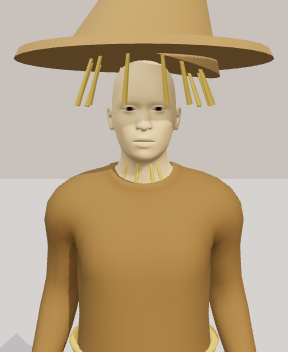
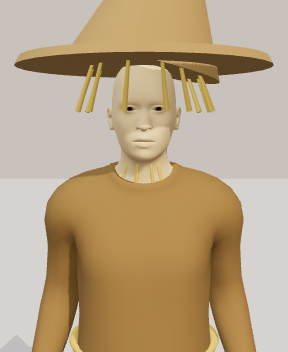
fix(preview): cut every hat to the measured head
Hats were placed at fixed offsets from the head joint, so they floated above
some rigs, sank into others and drifted forward or back with the skull's
offset from the joint. head-fit.js now measures each rig's skull and hair
around the joint from the skinned mesh (through the bind pose, cached per
template and scaled per instance): top, front, back, and the centre and
radius of the upper head about its own extents rather than the joint.

All hats are built from those measurements: folk brims clear the hair and
crowns sit on it, the beret is cut to the skull it presses flat, the Winkie
cap hugs the hair, the Gillikin hood is a squashed shell that hugs the crown
with a back drape and collar and hides the hair it replaces, and the Emerald
spectacles sit at the eye line with arms along the temples. The Scarecrow,
Tin Man and Witch hats and the Lion's mane use the same fit.

Tests: synthetic skinned rigs prove the measurement (including an off-centre
skull and instance scaling) and that every folk hat clears what it covers;
142 pass. The model fixture gains ?resident=<id>&rig=<n> for inspecting a
dressed resident, which was used to check all five hats on several rigs.

Changed region(s): [[0.0312, 0.0, 0.9688, 0.375], [0.2812, 0.4688, 0.4062, 0.5], [0.6875, 0.0, 0.7188, 0.0312]]

diff --git a/preview/src/oz-folk.js b/preview/src/oz-folk.js
@@ -1,5 +1,6 @@
 import * as THREE from 'three';
 import { mergeGeometries } from 'three/addons/utils/BufferGeometryUtils.js';
+import { measureHead } from './head-fit.js';
 
 // The peoples of Baum's Oz (the 1900 novel is public domain): each country
 // dresses in its own colour, and Emerald City folk wear their green spectacles.
@@ -17,43 +18,61 @@ export function ozFolkFor(id) {
 }
 
 const templates = new Map();
-function template(folk) {
-  if (templates.has(folk.name)) return templates.get(folk.name);
+const quantize = value => Math.round(value * 200) / 200;
+// Hats are cut to the measured head: brims clear the hair, crowns sit on it,
+// hoods replace it, and Emerald spectacles sit at the real eye line.
+function template(folk, fit) {
+  const key = `${folk.name}:${[fit.skull.top, fit.skull.radius, fit.skull.front, fit.skull.back, ...fit.skull.centre, fit.hair.top, fit.hair.radius, ...fit.hair.centre].map(quantize).join(':')}`;
+  if (templates.has(key)) return templates.get(key);
   const cloth = [], trim = [];
   const add = (parts, geometry, position, rotation = [0, 0, 0], scale = [1, 1, 1]) => {
     geometry.scale(...scale); geometry.rotateX(rotation[0]); geometry.rotateY(rotation[1]); geometry.rotateZ(rotation[2]); geometry.translate(...position); parts.push(geometry);
   };
-  // Positions are metres in a head-aligned frame: y up from the head joint, z forward.
+  const { skull, hair } = fit, eyeY = skull.top - 0.105, eyeZ = skull.front - 0.025, centreY = skull.top - skull.radius;
+  const [hx, hz] = hair.centre, [sx, sz] = skull.centre;
   if (folk.hat === 'bells') {
-    add(cloth, new THREE.CylinderGeometry(0.2, 0.21, 0.018, 32), [0, 0.19, 0]);
-    add(cloth, new THREE.CylinderGeometry(0.11, 0.15, 0.16, 32), [0, 0.27, 0]);
-    add(cloth, new THREE.ConeGeometry(0.11, 0.24, 32), [0, 0.47, 0]);
-    for (let i = 0; i < 6; i++) { const angle = i / 6 * Math.PI * 2; add(trim, new THREE.SphereGeometry(0.014, 10, 8), [Math.cos(angle) * 0.2, 0.17, Math.sin(angle) * 0.2]); }
+    const brimY = hair.top - 0.022, brimR = hair.radius + 0.035, crownR = hair.radius * 0.92;
+    add(cloth, new THREE.CylinderGeometry(brimR, brimR + 0.01, 0.018, 32), [hx, brimY, hz]);
+    add(cloth, new THREE.CylinderGeometry(crownR * 0.72, crownR, 0.16, 32), [hx, brimY + 0.08, hz]);
+    add(cloth, new THREE.ConeGeometry(crownR * 0.72, 0.24, 32), [hx, brimY + 0.28, hz]);
+    for (let i = 0; i < 6; i++) { const angle = i / 6 * Math.PI * 2; add(trim, new THREE.SphereGeometry(0.014, 10, 8), [hx + Math.cos(angle) * brimR, brimY - 0.02, hz + Math.sin(angle) * brimR]); }
   } else if (folk.hat === 'peak') {
-    add(cloth, new THREE.SphereGeometry(0.155, 28, 16, 0, Math.PI * 2, 0, Math.PI / 2), [0, 0.135, -0.01], [0, 0, 0], [1, 0.78, 1]);
-    add(cloth, new THREE.CylinderGeometry(0.16, 0.16, 0.014, 24, 1, false, -Math.PI / 2, Math.PI), [0, 0.135, -0.01]);
-    add(trim, new THREE.TorusGeometry(0.152, 0.008, 6, 32), [0, 0.135, -0.01], [Math.PI / 2, 0, 0]);
+    const capR = hair.radius + 0.022, capY = hair.top - capR * 0.66;
+    add(cloth, new THREE.SphereGeometry(capR, 28, 16, 0, Math.PI * 2, 0, Math.PI / 2), [hx, capY, hz], [0, 0, 0], [1, 0.82, 1]);
+    add(cloth, new THREE.CylinderGeometry(capR + 0.045, capR + 0.045, 0.012, 24, 1, false, -Math.PI / 2, Math.PI), [hx, capY, hz]);
+    add(trim, new THREE.TorusGeometry(capR, 0.008, 6, 32), [hx, capY, hz], [Math.PI / 2, 0, 0]);
   } else if (folk.hat === 'beret') {
-    add(cloth, new THREE.SphereGeometry(0.19, 28, 16), [0.03, 0.205, -0.02], [0, 0, 0.12], [1, 0.36, 1]);
-    add(trim, new THREE.CylinderGeometry(0.008, 0.008, 0.03, 8), [0.03, 0.28, -0.02]);
+    // A beret presses the hair flat, so it is cut to the skull rather than the hair.
+    const beretR = Math.max(hair.radius, skull.radius + 0.02) + 0.03, beretY = skull.top - 0.005;
+    add(cloth, new THREE.SphereGeometry(beretR, 28, 16), [sx + 0.02, beretY, sz - 0.01], [0, 0, 0.1], [1, 0.4, 1]);
+    add(trim, new THREE.CylinderGeometry(0.008, 0.008, 0.03, 8), [sx + 0.02, beretY + beretR * 0.4, sz - 0.01]);
   } else if (folk.hat === 'hood') {
-    add(cloth, new THREE.ConeGeometry(0.175, 0.34, 32, 1, true), [0, 0.2, -0.03], [0.12, 0, 0]);
-    add(cloth, new THREE.SphereGeometry(0.17, 28, 16, Math.PI * 0.55, Math.PI * 0.9, 0, Math.PI * 0.62), [0, 0.06, -0.01]);
-    add(trim, new THREE.TorusGeometry(0.16, 0.014, 8, 32), [0, -0.09, -0.01], [Math.PI / 2, 0, 0]);
+    // A cowl: a shell over the crown and the back half of the head (sphere phi runs
+    // +x -> -z -> -x for [PI, 2PI]), a soft peak folded back, and a short collar.
+    // The shell hugs the skull: a hair's breadth wider than the head, squashed so its
+    // crown sits half a centimetre above the measured top.
+    const hoodR = skull.radius + 0.012, squash = (skull.radius + 0.005) / hoodR;
+    add(cloth, new THREE.SphereGeometry(hoodR, 32, 18, Math.PI, Math.PI, 0, Math.PI * 0.74), [sx, centreY, sz], [0, 0, 0], [1, squash, 1]);
+    add(cloth, new THREE.SphereGeometry(hoodR, 32, 18, 0, Math.PI * 2, 0, Math.PI * 0.4), [sx, centreY, sz], [0, 0, 0], [1, squash, 1]);
+    add(cloth, new THREE.ConeGeometry(0.045, 0.1, 24, 1, true), [sx, centreY + hoodR * squash * 0.72, sz - hoodR * 0.5], [-0.75, 0, 0]);
+    add(cloth, new THREE.CylinderGeometry(skull.radius + 0.015, skull.radius + 0.05, 0.06, 32, 1, true), [sx, centreY - skull.radius - 0.045, sz]);
+    add(trim, new THREE.TorusGeometry(skull.radius + 0.022, 0.009, 8, 32), [sx, centreY - skull.radius - 0.013, sz], [Math.PI / 2, 0, 0]);
   } else {
-    add(cloth, new THREE.CylinderGeometry(0.21, 0.21, 0.018, 32), [0, 0.19, 0]);
-    add(cloth, new THREE.CylinderGeometry(0.135, 0.145, 0.26, 32), [0, 0.32, 0]);
-    add(trim, new THREE.TorusGeometry(0.14, 0.012, 6, 32), [0, 0.21, 0], [Math.PI / 2, 0, 0]);
-    // Green spectacles, as every citizen of the Emerald City wears.
-    for (const side of [-1, 1]) add(trim, new THREE.TorusGeometry(0.03, 0.005, 6, 24), [side * 0.05, 0.07, 0.125]);
-    add(trim, new THREE.CylinderGeometry(0.004, 0.004, 0.04, 6), [0, 0.07, 0.125], [0, 0, Math.PI / 2]);
+    const brimY = hair.top - 0.01, brimR = hair.radius + 0.04, crownR = hair.radius * 0.95;
+    add(cloth, new THREE.CylinderGeometry(brimR, brimR, 0.016, 32), [hx, brimY, hz]);
+    add(cloth, new THREE.CylinderGeometry(crownR * 0.94, crownR, 0.26, 32), [hx, brimY + 0.13, hz]);
+    add(trim, new THREE.TorusGeometry(crownR, 0.012, 6, 32), [hx, brimY + 0.03, hz], [Math.PI / 2, 0, 0]);
+    // Green spectacles, as every citizen of the Emerald City wears, at the eye line.
+    for (const side of [-1, 1]) add(trim, new THREE.TorusGeometry(0.031, 0.0045, 6, 24), [sx + side * 0.036, eyeY, eyeZ]);
+    add(trim, new THREE.CylinderGeometry(0.003, 0.003, 0.014, 6), [sx, eyeY + 0.006, eyeZ], [0, 0, Math.PI / 2]);
+    for (const side of [-1, 1]) add(trim, new THREE.CylinderGeometry(0.003, 0.003, skull.front - skull.back - 0.03, 6), [sx + side * (skull.radius - 0.005), eyeY + 0.008, (skull.front + skull.back) / 2 - 0.01], [Math.PI / 2, 0, 0]);
   }
   const result = [
     { geometry: mergeGeometries(cloth), material: new THREE.MeshStandardMaterial({ color: folk.color, roughness: 0.86 }) },
     { geometry: mergeGeometries(trim), material: new THREE.MeshStandardMaterial({ color: folk.trim, roughness: 0.4, metalness: folk.hat === 'bells' ? 0.7 : 0.15 }) },
   ];
   [...cloth, ...trim].forEach(geometry => geometry.dispose());
-  templates.set(folk.name, result); return result;
+  templates.set(key, result); return result;
 }
 
 // Tint the shared suit toward the country colour and attach the country's hat.
@@ -62,10 +81,13 @@ export function applyOzFolk(avatar, id) {
   const folk = ozFolkFor(id), model = avatar.model, head = model.getObjectByName('head');
   for (const [original, material] of avatar.materials) if (/suit|dress|shirt|jacket/.test(original.name)) { material.color.set(folk.color); material.roughness = 0.82; material.needsUpdate = true; }
   if (head) {
+    const fit = measureHead(avatar);
+    // A hood replaces the hair; every other hat sits on top of it.
+    if (folk.hat === 'hood') model.traverse(item => { if (item.isMesh && /^(bob|short|ponytail|long|afro|curly)/.test(item.material?.name ?? '')) item.visible = false; });
     model.updateMatrixWorld(true);
     const group = new THREE.Group(); group.name = `${folk.name} hat`;
     group.position.copy(head.getWorldPosition(new THREE.Vector3())); group.updateMatrixWorld(true);
-    for (const part of template(folk)) { const mesh = new THREE.Mesh(part.geometry, part.material); mesh.castShadow = mesh.receiveShadow = true; mesh.userData.localId = id; mesh.userData.ozFolk = folk.name; group.add(mesh); }
+    for (const part of template(folk, fit)) { const mesh = new THREE.Mesh(part.geometry, part.material); mesh.castShadow = mesh.receiveShadow = true; mesh.userData.localId = id; mesh.userData.ozFolk = folk.name; group.add(mesh); }
     head.attach(group);
   }
   model.userData.ozFolk = folk.name;

diff --git a/preview/src/player-costume.js b/preview/src/player-costume.js
@@ -1,5 +1,6 @@
 import * as THREE from 'three';
 import { createJevicaCostume } from './jevica-costume.js';
+import { measureHead } from './head-fit.js';
 
 const isSkin = name => /^(young|middleage|old)_/.test(name);
 const isHair = name => /^(bob|short|ponytail|long|afro|curly)/.test(name);
@@ -25,6 +26,7 @@ function gingham() {
 export function createPlayerCostume(avatar, form) {
   if (form === 'jevica') return createJevicaCostume(avatar);
   const { model, materials } = avatar.rig;
+  const fit = measureHead(avatar.rig), { skull, hair: hairFit } = fit, skullCentre = skull.top - skull.radius, [sx, sz] = skull.centre, [hx, hz] = hairFit.centre;
   const attachments = [], owned = new Set();
   const material = (color, extra = {}) => { const value = new THREE.MeshPhysicalMaterial({ color, roughness: 0.65, ...extra }); owned.add(value); return value; };
   const black = material('#080c12', { roughness: 0.15 });
@@ -84,9 +86,10 @@ export function createPlayerCostume(avatar, form) {
   if (form === 'scarecrow') {
     hideHair();
     const head = attach('head');
-    mesh(head, new THREE.CylinderGeometry(0.3, 0.31, 0.02, 32), burlap, [0, 0.17, 0]);
-    const crown = mesh(head, new THREE.ConeGeometry(0.19, 0.44, 32), burlap, [0.05, 0.38, -0.02]); crown.rotation.z = -0.22;
-    tufts(head, 14, 0.15, 0.12, 0.17);
+    const brimY = skull.top - 0.008;
+    mesh(head, new THREE.CylinderGeometry(skull.radius + 0.19, skull.radius + 0.2, 0.02, 32), burlap, [sx, brimY, sz]);
+    const crown = mesh(head, new THREE.ConeGeometry(skull.radius + 0.08, 0.44, 32), burlap, [sx + 0.05, brimY + 0.21, sz - 0.02]); crown.rotation.z = -0.22;
+    const straws = attach('head'); straws.position.set(0, 0, 0); tufts(straws, 14, skull.radius + 0.04, 0.12, brimY); straws.children.forEach(tuft => { tuft.position.x += sx; tuft.position.z += sz; });
     const neck = attach('neck_01'); tufts(neck, 12, 0.07, 0.1, 0.02);
     for (const side of ['l', 'r']) { const wrist = attach(`hand_${side}`); tufts(wrist, 10, 0.045, 0.09, 0.02); const ankle = attach(`foot_${side}`); tufts(ankle, 10, 0.055, 0.08, 0.1); }
     const chest = attach('spine_03');
@@ -99,8 +102,8 @@ export function createPlayerCostume(avatar, form) {
   if (form === 'tinman') {
     hideHair();
     const head = attach('head');
-    mesh(head, new THREE.CylinderGeometry(0.19, 0.05, 0.16, 32), tin, [0, 0.185, -0.01]);
-    mesh(head, new THREE.CylinderGeometry(0.02, 0.026, 0.15, 12), tin, [0, 0.335, -0.01]);
+    mesh(head, new THREE.CylinderGeometry(skull.radius + 0.08, 0.05, 0.16, 32), tin, [sx, skull.top + 0.07, sz]);
+    mesh(head, new THREE.CylinderGeometry(0.02, 0.026, 0.15, 12), tin, [sx, skull.top + 0.22, sz]);
     const chest = attach('spine_03');
     const plate = mesh(chest, new THREE.CylinderGeometry(0.2, 0.185, 0.34, 28), tin, [0, -0.05, 0.005]); plate.scale.set(1, 1, 0.78);
     for (let i = 0; i < 12; i++) { const angle = i / 12 * Math.PI * 2; sphere(chest, silver, [Math.cos(angle) * 0.2, 0.08, Math.sin(angle) * 0.156], [0.012, 0.012, 0.012]); sphere(chest, silver, [Math.cos(angle) * 0.19, -0.19, Math.sin(angle) * 0.148], [0.012, 0.012, 0.012]); }
@@ -117,16 +120,17 @@ export function createPlayerCostume(avatar, form) {
     hideHair();
     avatar.object.scale.set(1.06, 1.02, 1.06);
     const head = attach('head');
+    const maneR = skull.radius + 0.09, back = skull.back;
     for (let i = 0; i < 16; i++) {
-      const angle = i / 16 * Math.PI * 2, radius = 0.19 + (i % 2) * 0.04, low = Math.sin(angle) < -0.3;
-      const lock = sphere(head, mane, [Math.cos(angle) * radius, 0.05 + Math.sin(angle) * radius * 0.95, low ? -0.02 : -0.1 - (i % 3) * 0.02], [0.08, 0.12 + (i % 2) * 0.03, 0.07]); lock.rotation.z = angle;
+      const angle = i / 16 * Math.PI * 2, radius = maneR + (i % 2) * 0.04, low = Math.sin(angle) < -0.3;
+      const lock = sphere(head, mane, [sx + Math.cos(angle) * radius, skullCentre + Math.sin(angle) * radius * 0.95, low ? back + 0.06 : back + 0.01 - (i % 3) * 0.02], [0.08, 0.12 + (i % 2) * 0.03, 0.07]); lock.rotation.z = angle;
     }
-    for (let i = 0; i < 12; i++) { const angle = i / 12 * Math.PI * 2; sphere(head, mane, [Math.cos(angle) * 0.15, 0.04 + Math.sin(angle) * 0.15, -0.18], [0.07, 0.1, 0.06], [0, 0, angle]); }
-    for (let i = 0; i < 5; i++) { const t = (i - 2) / 2; sphere(head, mane, [t * 0.11, -0.12 - Math.abs(t) * 0.02, 0.06 - Math.abs(t) * 0.03], [0.05, 0.07, 0.045]); }
-    for (const side of [-1, 1]) sphere(head, fur, [side * 0.11, 0.21, -0.01], [0.045, 0.05, 0.03]);
-    sphere(head, black, [0, 0.02, 0.15], [0.026, 0.018, 0.016]);
-    for (const side of [-1, 1]) { const loop = sphere(head, ribbon, [side * 0.045, 0.27, 0.05], [0.045, 0.026, 0.02]); loop.rotation.z = side * 0.5; }
-    sphere(head, ribbon, [0, 0.265, 0.055], [0.018, 0.018, 0.018]);
+    for (let i = 0; i < 12; i++) { const angle = i / 12 * Math.PI * 2; sphere(head, mane, [sx + Math.cos(angle) * (maneR - 0.04), skullCentre - 0.01 + Math.sin(angle) * (maneR - 0.04), back - 0.06], [0.07, 0.1, 0.06], [0, 0, angle]); }
+    for (let i = 0; i < 5; i++) { const t = (i - 2) / 2; sphere(head, mane, [sx + t * 0.11, skullCentre - skull.radius - 0.05 - Math.abs(t) * 0.02, skull.front - 0.05 - Math.abs(t) * 0.03], [0.05, 0.07, 0.045]); }
+    for (const side of [-1, 1]) sphere(head, fur, [sx + side * (skull.radius + 0.01), skull.top + 0.01, sz], [0.045, 0.05, 0.03]);
+    sphere(head, black, [sx, skullCentre - 0.02, skull.front + 0.01], [0.026, 0.018, 0.016]);
+    for (const side of [-1, 1]) { const loop = sphere(head, ribbon, [sx + side * 0.045, skull.top + 0.06, sz + 0.05], [0.045, 0.026, 0.02]); loop.rotation.z = side * 0.5; }
+    sphere(head, ribbon, [sx, skull.top + 0.055, sz + 0.055], [0.018, 0.018, 0.018]);
     const tail = attach('spine_01');
     const path = new THREE.CatmullRomCurve3([new THREE.Vector3(0, -0.02, -0.11), new THREE.Vector3(0.05, -0.2, -0.28), new THREE.Vector3(0.12, -0.5, -0.32), new THREE.Vector3(0.2, -0.72, -0.2)]);
     mesh(tail, new THREE.TubeGeometry(path, 16, 0.02, 8, false), fur, [0, 0, 0]);
@@ -135,10 +139,11 @@ export function createPlayerCostume(avatar, form) {
   if (form === 'witch') {
     avatar.object.scale.set(0.88, 1.08, 0.93);
     const head = attach('head');
-    mesh(head, new THREE.CylinderGeometry(0.42, 0.43, 0.035, 40), purple, [0, 0.08, 0]);
-    const crown = mesh(head, new THREE.ConeGeometry(0.24, 0.71, 40), purple, [0.06, 0.42, 0]); crown.rotation.z = -0.18;
-    mesh(head, new THREE.CylinderGeometry(0.23, 0.25, 0.075, 32), black, [0.015, 0.125, 0]);
-    mesh(head, new THREE.TorusGeometry(0.045, 0.008, 8, 20), silver, [0, 0.13, 0.235]);
+    const brimY = hairFit.top - 0.014, crownR = hairFit.radius + 0.1;
+    mesh(head, new THREE.CylinderGeometry(crownR + 0.18, crownR + 0.19, 0.035, 40), purple, [hx, brimY, hz]);
+    const crown = mesh(head, new THREE.ConeGeometry(crownR, 0.71, 40), purple, [hx + 0.06, brimY + 0.34, hz]); crown.rotation.z = -0.18;
+    mesh(head, new THREE.CylinderGeometry(crownR - 0.01, crownR + 0.01, 0.075, 32), black, [hx + 0.015, brimY + 0.045, hz]);
+    mesh(head, new THREE.TorusGeometry(0.045, 0.008, 8, 20), silver, [hx, brimY + 0.05, hz + crownR]);
     const waist = attach('spine_01');
     const robe = new THREE.LatheGeometry(Array.from({ length: 25 }, (_, i) => { const t = i / 24; return new THREE.Vector2(0.34 - 0.18 * t, -0.91 + t * 1.04); }), 64);
     const points = robe.attributes.position;

diff --git a/preview/tests/head-fit.test.js b/preview/tests/head-fit.test.js
@@ -1,0 +1,72 @@
+import test from 'node:test';
+import assert from 'node:assert/strict';
+import * as THREE from 'three';
+import { measureHead, DEFAULT_HEAD_FIT } from '../src/head-fit.js';
+import { applyOzFolk, OZ_FOLK } from '../src/oz-folk.js';
+
+// A skinned sphere bound entirely to the head bone stands in for a skull or hair.
+function skinnedBall(head, skeleton, name, radius, offsetY) {
+  const geometry = new THREE.SphereGeometry(radius, 16, 12).translate(0, offsetY, 0);
+  const count = geometry.attributes.position.count;
+  geometry.setAttribute('skinIndex', new THREE.Uint16BufferAttribute(new Array(count * 4).fill(0), 4));
+  geometry.setAttribute('skinWeight', new THREE.Float32BufferAttribute(Array.from({ length: count * 4 }, (_, i) => (i % 4 === 0 ? 1 : 0)), 4));
+  const material = new THREE.MeshStandardMaterial({ name });
+  const mesh = new THREE.SkinnedMesh(geometry, material);
+  mesh.add(head); mesh.bind(skeleton);
+  return mesh;
+}
+function rig(scale = 1, forward = 0) {
+  const model = new THREE.Group(); model.scale.setScalar(scale);
+  const head = new THREE.Bone(); head.name = 'head'; head.position.y = 1.5;
+  const skeleton = new THREE.Skeleton([head]);
+  const skull = skinnedBall(head, skeleton, 'young_caucasian_female', 0.1, 1.55);
+  if (forward) skull.geometry.translate(0, 0, forward);
+  const hair = new THREE.SkinnedMesh(new THREE.SphereGeometry(0.125, 16, 12).translate(0, 1.56, 0), new THREE.MeshStandardMaterial({ name: 'bob01' }));
+  const count = hair.geometry.attributes.position.count;
+  hair.geometry.setAttribute('skinIndex', new THREE.Uint16BufferAttribute(new Array(count * 4).fill(0), 4));
+  hair.geometry.setAttribute('skinWeight', new THREE.Float32BufferAttribute(Array.from({ length: count * 4 }, (_, i) => (i % 4 === 0 ? 1 : 0)), 4));
+  hair.bind(skeleton);
+  model.add(skull, hair); model.updateMatrixWorld(true);
+  return { model, head, materials: new Map() };
+}
+
+test('measureHead reads the skull and hair from the skinned rig around the head joint', () => {
+  const fit = measureHead(rig());
+  assert.ok(Math.abs(fit.skull.top - 0.15) < 0.005, `skull top ${fit.skull.top}`);
+  assert.ok(Math.abs(fit.skull.radius - 0.1) < 0.005, `skull radius ${fit.skull.radius}`);
+  assert.ok(Math.abs(fit.skull.front - 0.1) < 0.005 && Math.abs(fit.skull.back + 0.1) < 0.005, 'front and back of the skull');
+  assert.ok(Math.abs(fit.hair.top - 0.185) < 0.005 && Math.abs(fit.hair.radius - 0.125) < 0.005, `hair ${JSON.stringify(fit.hair)}`);
+});
+
+test('a skull that sits forward of the joint is measured about its own centre', () => {
+  const fit = measureHead(rig(1, 0.04));
+  assert.ok(Math.abs(fit.skull.centre[1] - 0.04) < 0.005 && Math.abs(fit.skull.centre[0]) < 0.005, `centre ${fit.skull.centre}`);
+  assert.ok(Math.abs(fit.skull.radius - 0.1) < 0.005, `radius about the centre ${fit.skull.radius}`);
+  assert.ok(Math.abs(fit.skull.front - 0.14) < 0.005, `front ${fit.skull.front}`);
+});
+
+test('measurements scale with the instance and fall back for rigs without a skinned head', () => {
+  const small = measureHead(rig(0.5));
+  assert.ok(Math.abs(small.skull.top - 0.075) < 0.004 && Math.abs(small.hair.radius - 0.0625) < 0.004, JSON.stringify(small));
+  const model = new THREE.Group(); const head = new THREE.Bone(); head.name = 'head'; model.add(head);
+  assert.deepEqual(measureHead({ model }), DEFAULT_HEAD_FIT);
+});
+
+test('every folk hat clears the measured hair and sits on the crown', () => {
+  for (const folk of OZ_FOLK) {
+    const avatar = rig();
+    const id = [...Array(200).keys()].map(i => `local-${i}`).find(id => OZ_FOLK[[...id].reduce((h, c) => (Math.imul(h, 31) + c.charCodeAt(0)) >>> 0, 0) % OZ_FOLK.length] === folk);
+    const applied = applyOzFolk(avatar, id);
+    assert.equal(applied.name, folk.name);
+    const hat = avatar.head.children.find(child => child.name === `${folk.name} hat`);
+    assert.ok(hat, `${folk.name} hat attached`);
+    const box = new THREE.Box3().setFromObject(hat), fit = measureHead(avatar), origin = avatar.head.getWorldPosition(new THREE.Vector3());
+    const top = box.max.y - origin.y, bottom = box.min.y - origin.y;
+    const under = folk.hat === 'hood' ? fit.skull.top : fit.hair.top; // a hood replaces the hair
+    assert.ok(top > under + 0.01, `${folk.name}: rises above what it covers (${top.toFixed(3)} vs ${under.toFixed(3)})`);
+    assert.ok(bottom < fit.hair.top, `${folk.name}: reaches down to the head (${bottom.toFixed(3)})`);
+    assert.ok(hat.children.every(mesh => mesh.geometry.attributes.position.array.every(Number.isFinite)));
+    const hairMesh = avatar.model.children.find(mesh => mesh.material.name === 'bob01');
+    assert.equal(hairMesh.visible, folk.hat !== 'hood', `${folk.name}: hood replaces hair, other hats keep it`);
+  }
+});

diff --git a/preview/src/head-fit.js b/preview/src/head-fit.js
@@ -1,0 +1,73 @@
+import * as THREE from 'three';
+
+const isHair = name => /^(bob|short|ponytail|long|afro|curly)/.test(name);
+const isSkin = name => /^(young|middleage|old)_/.test(name);
+const unitFits = new WeakMap();
+// Used when a rig has no skinned head (test fixtures): an adult skull under short hair.
+export const DEFAULT_HEAD_FIT = { skull: { top: 0.2, radius: 0.1, front: 0.11, back: -0.09, centre: [0, 0.01] }, hair: { top: 0.225, radius: 0.115, centre: [0, 0.01] } };
+
+// Measure the skull and hair around the head joint at rest, in a world-aligned
+// frame centred on the joint (y up, z forward). Skinned vertices are resolved
+// through the bind pose, so the result is the rig's true shape rather than a
+// guess; it is cached per source template and scaled per instance.
+function measure(model) {
+  const head = model.getObjectByName('head');
+  if (!head) return null;
+  model.updateMatrixWorld(true);
+  const origin = head.getWorldPosition(new THREE.Vector3()), vertex = new THREE.Vector3();
+  const skull = { top: -Infinity, radius: 0, front: -Infinity, back: Infinity, centre: [0, 0] }, hair = { top: -Infinity, radius: 0, centre: [0, 0] };
+  const bounds = new Map([[skull, { minX: Infinity, maxX: -Infinity, minZ: Infinity, maxZ: -Infinity }], [hair, { minX: Infinity, maxX: -Infinity, minZ: Infinity, maxZ: -Infinity }]]);
+  let found = false;
+  model.traverse(item => {
+    if (!item.isSkinnedMesh) return;
+    const name = item.material?.name ?? '', target = isSkin(name) ? skull : isHair(name) ? hair : null;
+    if (!target) return;
+    const index = item.skeleton.bones.indexOf(head);
+    if (index < 0) return;
+    item.skeleton.update();
+    const { position, skinIndex, skinWeight } = item.geometry.attributes;
+    for (let i = 0; i < position.count; i++) {
+      let weight = 0;
+      for (let k = 0; k < 4; k++) if (skinIndex.getComponent(i, k) === index) weight += skinWeight.getComponent(i, k);
+      if (weight < 0.5) continue;
+      vertex.fromBufferAttribute(position, i);
+      item.applyBoneTransform(i, vertex).applyMatrix4(item.matrixWorld).sub(origin);
+      found = true;
+      if (vertex.y > target.top) target.top = vertex.y;
+      if (target === skull) { if (vertex.z > skull.front) skull.front = vertex.z; if (vertex.z < skull.back) skull.back = vertex.z; }
+    }
+    // The upper head (where a brim or band sits) is centred on its own extents,
+    // not on the joint, which sits at the back of the skull.
+    const box = bounds.get(target);
+    for (let i = 0; i < position.count; i++) {
+      let weight = 0;
+      for (let k = 0; k < 4; k++) if (skinIndex.getComponent(i, k) === index) weight += skinWeight.getComponent(i, k);
+      if (weight < 0.5) continue;
+      vertex.fromBufferAttribute(position, i);
+      item.applyBoneTransform(i, vertex).applyMatrix4(item.matrixWorld).sub(origin);
+      if (vertex.y <= target.top - 0.12) continue;
+      box.minX = Math.min(box.minX, vertex.x); box.maxX = Math.max(box.maxX, vertex.x); box.minZ = Math.min(box.minZ, vertex.z); box.maxZ = Math.max(box.maxZ, vertex.z);
+    }
+  });
+  for (const target of [skull, hair]) {
+    const box = bounds.get(target);
+    if (!Number.isFinite(box.minX)) continue;
+    target.centre = [(box.minX + box.maxX) / 2, (box.minZ + box.maxZ) / 2];
+    target.radius = Math.max(box.maxX - box.minX, box.maxZ - box.minZ) / 2;
+  }
+  if (!found || !Number.isFinite(skull.top)) return null;
+  if (!Number.isFinite(hair.top)) { hair.top = skull.top; hair.radius = skull.radius; hair.centre = [...skull.centre]; }
+  hair.top = Math.max(hair.top, skull.top); hair.radius = Math.max(hair.radius, skull.radius);
+  const scale = model.getWorldScale(new THREE.Vector3()).y || 1;
+  const unit = value => value / scale;
+  return { skull: { top: unit(skull.top), radius: unit(skull.radius), front: unit(skull.front), back: unit(skull.back), centre: skull.centre.map(unit) }, hair: { top: unit(hair.top), radius: unit(hair.radius), centre: hair.centre.map(unit) } };
+}
+
+export function measureHead(avatar) {
+  const model = avatar.model, key = avatar.source?.scene ?? model;
+  let unit = unitFits.get(key);
+  if (!unit) { unit = measure(model) ?? DEFAULT_HEAD_FIT; unitFits.set(key, unit); }
+  const scale = model.getWorldScale(new THREE.Vector3()).y || 1;
+  const times = part => Object.fromEntries(Object.entries(part).map(([k, v]) => [k, Array.isArray(v) ? v.map(n => n * scale) : v * scale]));
+  return { skull: times(unit.skull), hair: times(unit.hair) };
+}

diff --git a/preview/e2e/fixtures/jevica.js b/preview/e2e/fixtures/jevica.js
@@ -21,8 +21,11 @@ const floor = new THREE.Mesh(new THREE.PlaneGeometry(30,30), new THREE.MeshStand
 floor.rotation.x = -Math.PI/2; floor.receiveShadow = true; scene.add(floor);
 const camera = new THREE.PerspectiveCamera(36,innerWidth/innerHeight,0.01,100);
 const form=new URLSearchParams(location.search).get('form')??'jevica';
+const params=new URLSearchParams(location.search), resident=params.get('resident');
 const identity=VISITOR_FORMS.find(item=>item.id===form) ?? VISITOR_FORMS.at(-1);
-const avatar = await loadResidentAvatar(identity.avatar,'player',identity.profile), outfit = createPlayerCostume(avatar,form); scene.add(avatar.object);
+// ?resident=local-07&rig=2 inspects a dressed resident (folk hat included) on a given shared rig.
+const avatar = resident ? await loadResidentAvatar(Number(params.get('rig') ?? 0),resident) : await loadResidentAvatar(identity.avatar,'player',identity.profile);
+const outfit = resident ? {update(){}} : createPlayerCostume(avatar,form); scene.add(avatar.object);
 function render(view='full',time=0,speed=0) {
   avatar.object.rotation.y = view === 'back' ? Math.PI : view === 'profile' ? -Math.PI/2 : 0;
   if (view === 'portrait') {camera.position.set(0,1.61,1.40);camera.lookAt(0,1.48,0);}

diff --git a/preview/src/avatars.js b/preview/src/avatars.js
@@ -84,7 +84,7 @@ export function instantiateAvatar(source, { targetHeight, id }) {
   }));
   const hipHeight=model.getObjectByName('thigh_l')?.getWorldPosition(new THREE.Vector3()).y ?? targetHeight*0.52;
   return {
-    model, bones, rest, axes, materials, skeletons, hipHeight,
+    model, bones, rest, axes, materials, skeletons, hipHeight, source,
     dispose() { for (const skeleton of skeletons) skeleton.dispose(); for (const material of materials.values()) material.dispose(); },
   };
 }

diff --git a/preview/public/assets/characters/README.md b/preview/public/assets/characters/README.md
@@ -54,6 +54,12 @@ Witch in velvet robes and cape. Costumes are player-only. Residents and store
 people are dressed by `preview/src/oz-folk.js` as the peoples of the five Oz
 countries (Munchkin, Winkie, Quadling, Gillikin and Emerald City): the shared
 suit is tinted to the country colour and a country hat follows the head bone.
+`preview/src/head-fit.js` measures each rig's skull and hair around the head
+joint from the skinned mesh (cached per template, scaled per instance), and
+every hat — folk hats and the player hats alike — is cut to those measurements,
+so brims clear the hair, crowns sit on it, hoods replace it and the Emerald
+spectacles sit at the eye line. `e2e/fixtures/jevica.html?resident=local-04&rig=1`
+renders a dressed resident on a given shared rig for inspection.
 The `*-portrait.png` files are actual renderer captures of these models, made
 with `e2e/fixtures/jevica.html?form=<id>` at 288 × 352 and
 `window.jevicaFixture.render('portrait')`.
